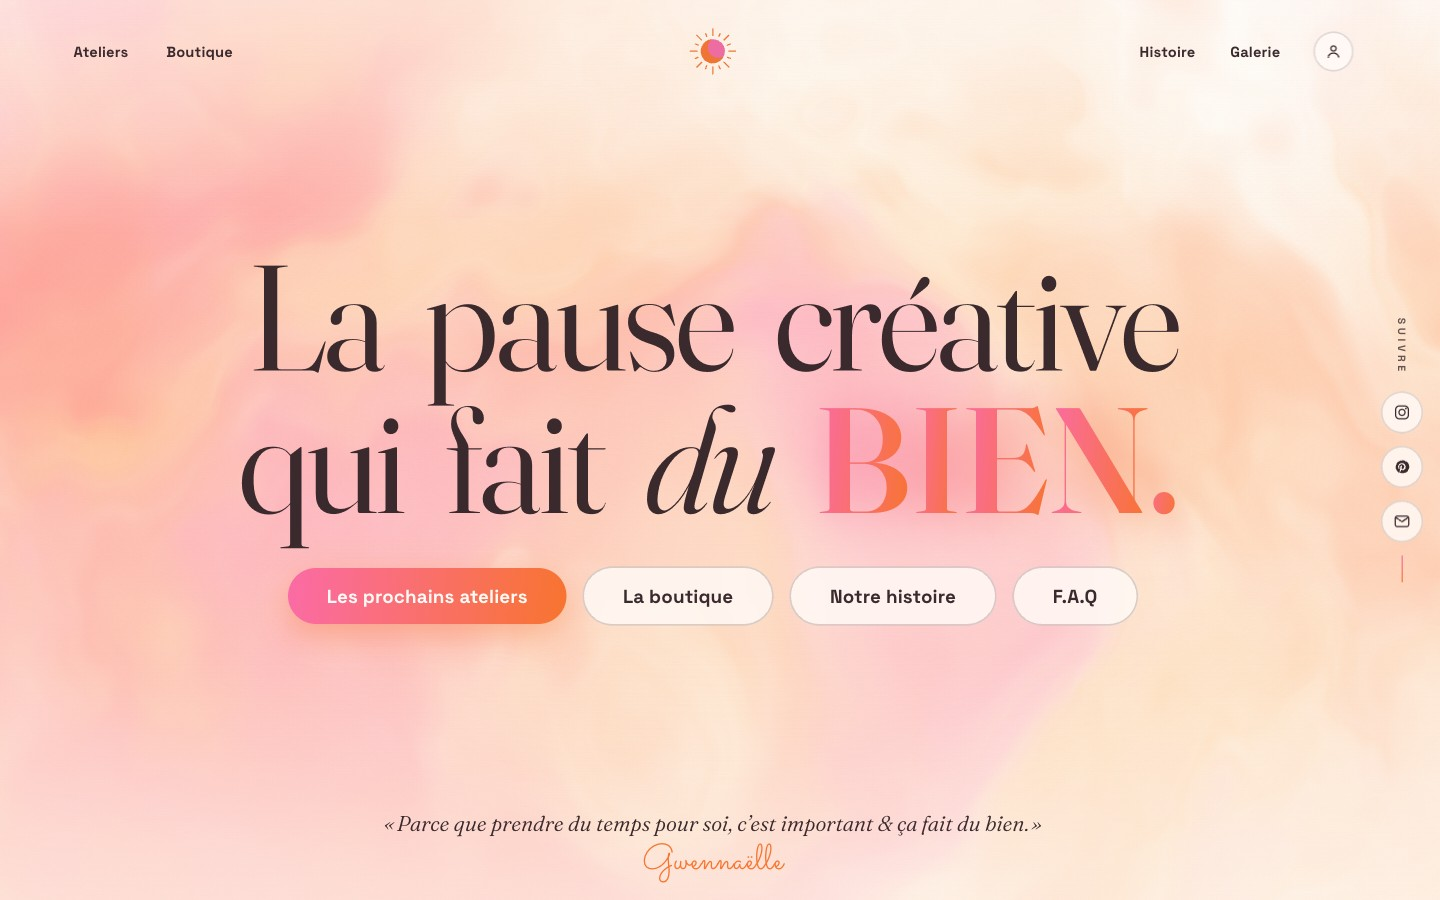
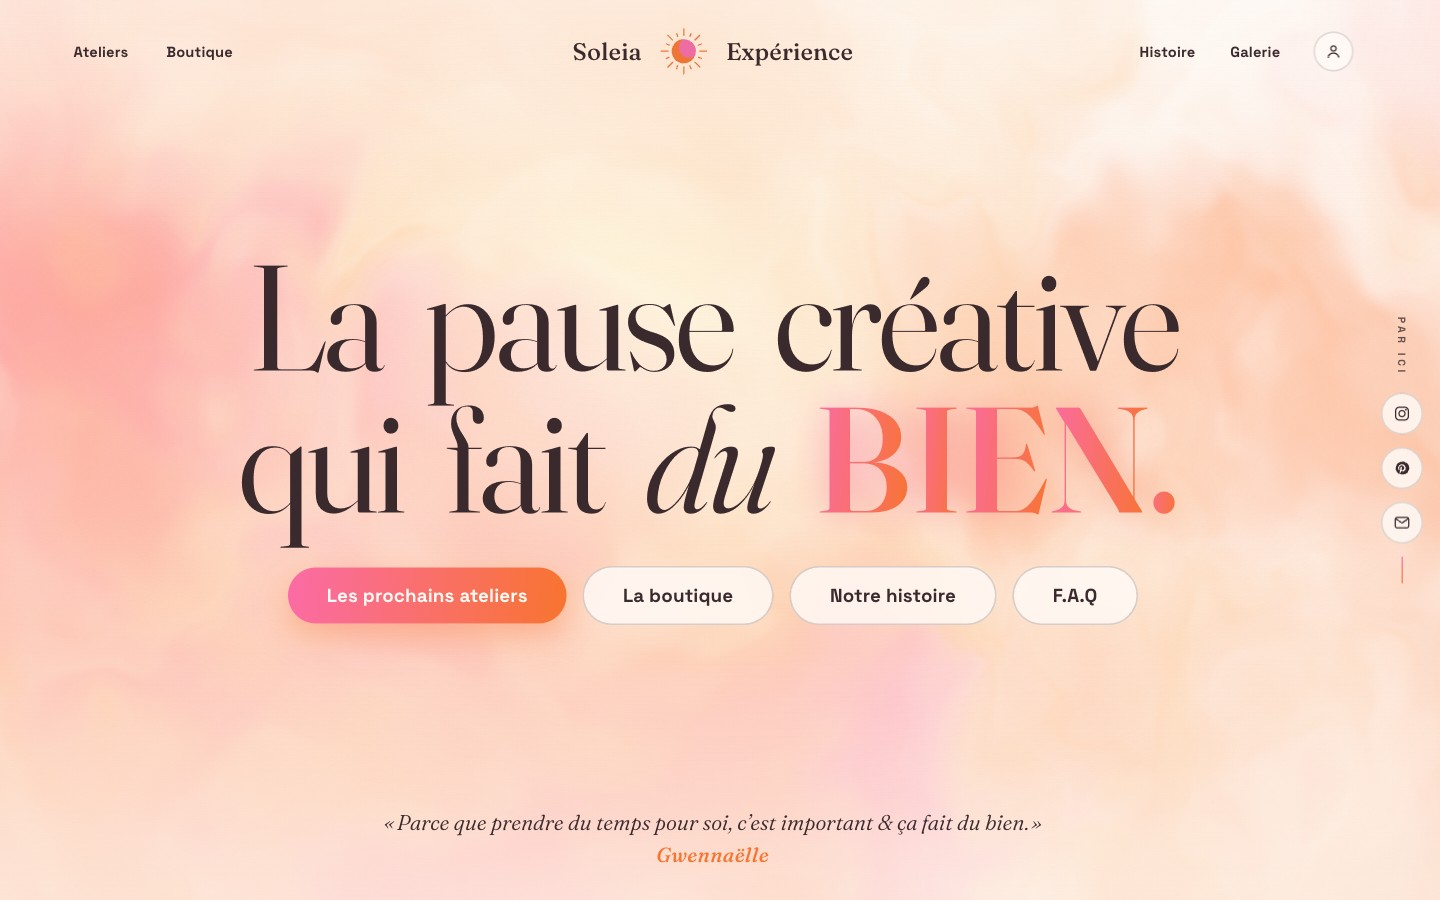
V32 retenue — 4 ajustements de Gwennaëlle
- signature « Gwennaëlle » repassée en Fraunces italique (police de la V30, plus Sacramento)
- logo flanqué de « Soleia » (gauche) et « Expérience » (droite) en Fraunces (comme « BIEN »)
- label du rail social « Suivre » → « Par ici »
- citation + prénom remontés très légèrement
- page de sélection : V32 marquée « ★ Retenue »

diff --git a/site/v32/index.html b/site/v32/index.html
@@ -7,7 +7,7 @@
 <link rel="icon" type="image/svg+xml" href="/favicon.svg" />
 <link rel="preconnect" href="https://fonts.googleapis.com" />
 <link rel="preconnect" href="https://fonts.gstatic.com" crossorigin />
-<link href="https://fonts.googleapis.com/css2?family=Fraunces:ital,opsz,wght@0,9..144,300..700;1,9..144,300..600&family=Space+Grotesk:wght@300..700&family=Sacramento&display=swap" rel="stylesheet" />
+<link href="https://fonts.googleapis.com/css2?family=Fraunces:ital,opsz,wght@0,9..144,300..700;1,9..144,300..600&family=Space+Grotesk:wght@300..700&display=swap" rel="stylesheet" />
 <style>
   :root {
     /* ===== PALETTE EXACTE SOLEIA ===== */
@@ -159,14 +159,25 @@
     display: flex;
     align-items: center;
     justify-content: center;
+    gap: clamp(0.5rem, 1.3vw, 1.1rem);
     text-decoration: none;
     justify-self: center;
-    line-height: 0;
+    line-height: 1;
   }
   .brand img {
     height: clamp(40px, 5.4vh, 60px);
     width: auto;
     display: block;
+  }
+  /* « Soleia » (gauche) et « Expérience » (droite) — même famille que « BIEN » */
+  .brand__word {
+    font-family: "Fraunces", Georgia, serif;
+    font-weight: 500;
+    font-size: clamp(1.05rem, 1.7vw, 1.5rem);
+    letter-spacing: 0.004em;
+    color: var(--ink);
+    line-height: 1;
+    white-space: nowrap;
   }
   /* repli si /logo.svg indisponible : emblème soleil bi-ton inline */
   .brand__fallback {
@@ -388,6 +399,7 @@
     align-items: flex-end;
     justify-content: center;
     padding-top: clamp(0.6rem, 1.4vh, 1.1rem);
+    padding-bottom: clamp(0.4rem, 1.6vh, 1.2rem); /* remonte légèrement la citation */
   }
   .quote {
     margin: 0;
@@ -406,12 +418,12 @@
   }
   .quote cite {
     display: block;
-    font-style: normal;
-    font-family: "Sacramento", "Brush Script MT", cursive;  /* signature, PAS Caveat */
-    font-weight: 400;
-    font-size: clamp(1.6rem, 2.6vw, 2.25rem);
-    line-height: 1;
-    letter-spacing: 0.01em;
+    font-family: "Fraunces", Georgia, serif;   /* police de la V30 */
+    font-style: italic;
+    font-weight: 500;
+    font-size: clamp(1rem, 1.5vw, 1.28rem);
+    line-height: 1.1;
+    letter-spacing: 0.02em;
     color: var(--orange);
   }
 
@@ -471,7 +483,7 @@
 
   <!-- ===================== RAIL RÉSEAUX SOCIAUX — bord DROIT ===================== -->
   <aside class="social-rail" aria-label="Suivre Soleia sur les réseaux sociaux">
-    <span class="social-rail__label" aria-hidden="true">Suivre</span>
+    <span class="social-rail__label" aria-hidden="true">Par ici</span>
     <a class="icon-btn" href="#" aria-label="Instagram de Soleia">
       <svg viewBox="0 0 24 24" fill="none" stroke="currentColor" stroke-width="1.7" aria-hidden="true">
         <rect x="3.5" y="3.5" width="17" height="17" rx="5"/>
@@ -502,7 +514,8 @@
       </ul>
 
       <a class="brand" href="#" aria-label="Soleia Expérience, accueil">
-        <img src="/logo.svg" alt="Soleia Expérience" />
+        <span class="brand__word brand__word--left">Soleia</span>
+        <img src="/logo.svg" alt="" />
         <!-- repli si /logo.svg manquant : emblème soleil bi-ton rose/orange -->
         <svg class="brand__fallback" viewBox="0 0 64 64" role="img" aria-label="Soleia Expérience">
           <defs>
@@ -523,6 +536,7 @@
             <line x1="44" y1="20" x2="50.5" y2="13.5"/>
           </g>
         </svg>
+        <span class="brand__word brand__word--right">Expérience</span>
       </a>
 
       <div class="nav__col nav__col--right">

diff --git a/site/index.html b/site/index.html
@@ -112,9 +112,9 @@
         <span class="word">solei<b>a</b></span>
       </div>
       <div class="lede">
-        <p class="eyebrow">Base v30 · Gradient vivant</p>
-        <h1>La <em>v30</em> affinée selon tes retours.</h1>
-        <p>Toutes partent de la v30 que tu as choisie, avec le logo officiel, le « BIEN » bien accentué, les réseaux passés sur le côté, le menu en gras, la citation centrée et la palette exacte. À gauche les 5 plus fidèles, à droite 5 plus créatives.</p>
+        <p class="eyebrow">Direction retenue · V32</p>
+        <h1>La <em>V32</em> retenue, et affinée.</h1>
+        <p>Tu as choisi la V32 (marquée d’une ★ ci-dessous) — voici ses derniers ajustements : logo « Soleia&#8239;·&#8239;Expérience », signature « Gwennaëlle » en Fraunces, label « Par ici » et citation remontée. Les autres versions restent là pour comparer.</p>
         <div class="applied">
           <span>Logo officiel Soleia dans la nav</span>
           <span>« BIEN » bien accentué</span>
@@ -160,8 +160,8 @@
     const FID = [
       { key:'v31', name:'BIEN orange', tag:'Fidèle',
         desc:'« BIEN » en orange vif plein, réseaux à gauche. La plus proche de la v30.' },
-      { key:'v32', name:'BIEN dégradé', tag:'Fidèle',
-        desc:'« BIEN » en dégradé rose→orange, réseaux à droite, fond un peu plus chaud.' },
+      { key:'v32', name:'BIEN dégradé', tag:'★ Retenue',
+        desc:'La direction retenue, affinée : logo « Soleia · Expérience », signature en Fraunces, label « Par ici », citation remontée.' },
       { key:'v33', name:'Clair & rosé', tag:'Fidèle',
         desc:'Ambiance claire et lumineuse, « BIEN » rose vif, réseaux à gauche.' },
       { key:'v34', name:'BIEN souligné', tag:'Fidèle',